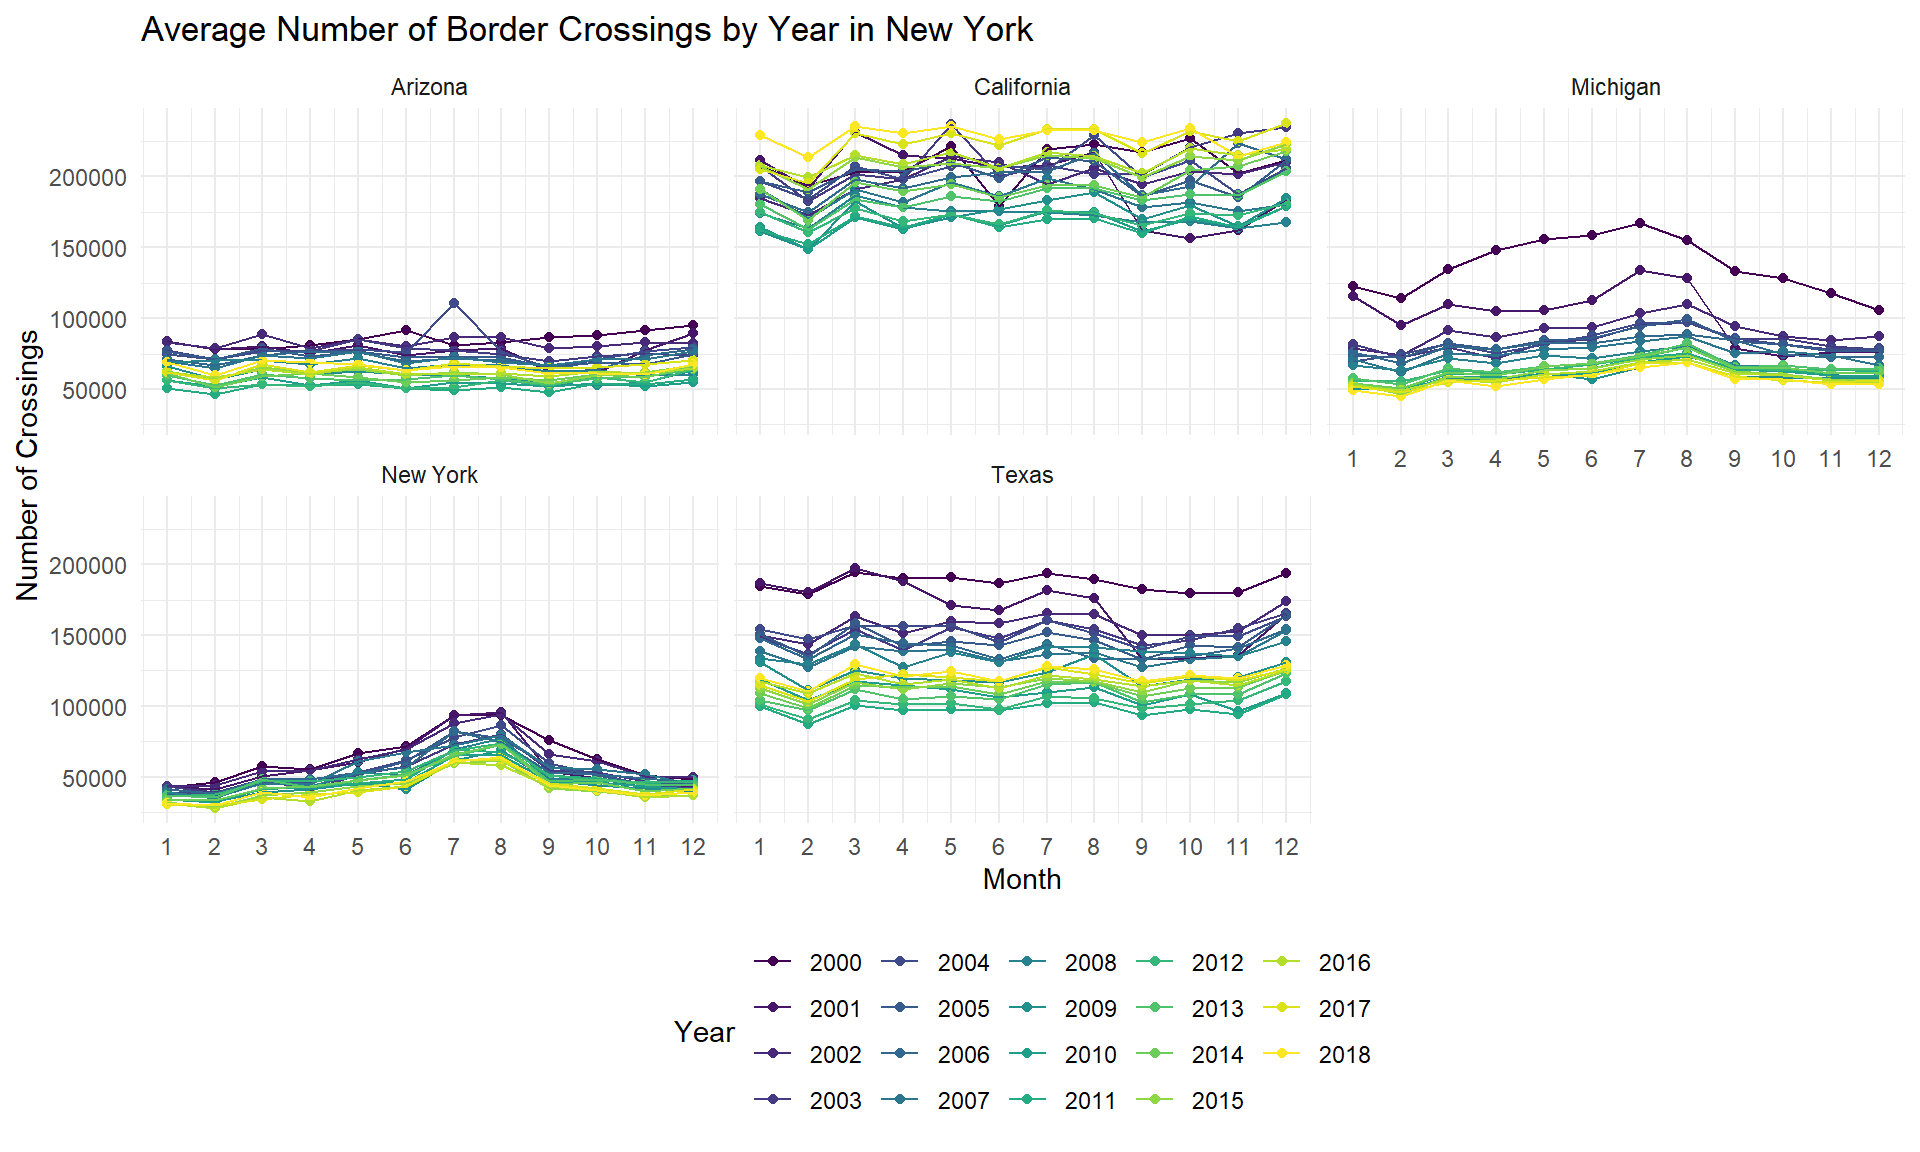
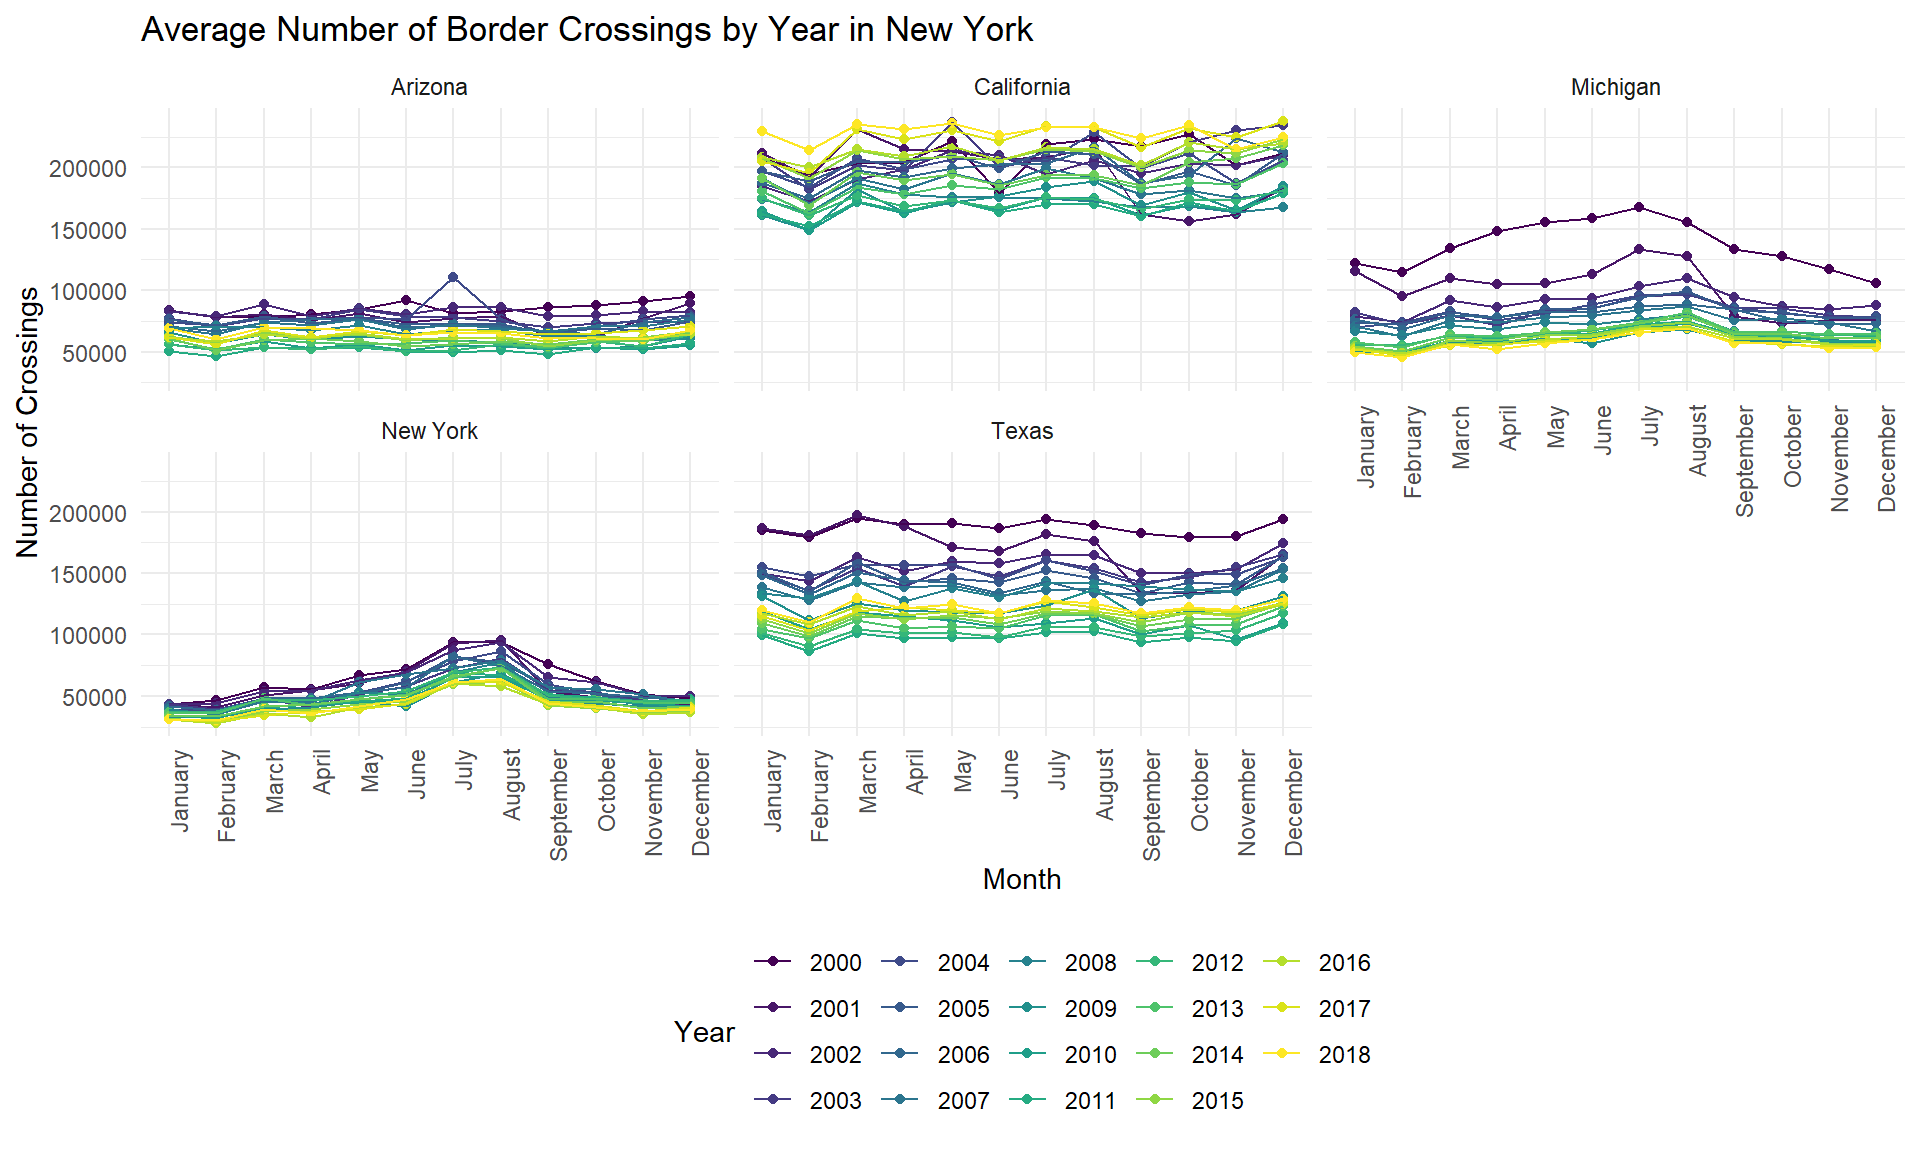
integrating month_name

diff --git a/crossings_annually.html b/crossings_annually.html
@@ -26,17 +26,6 @@
 <script src="site_libs/navigation-1.1/codefolding.js"></script>
 <link href="site_libs/highlightjs-9.12.0/default.css" rel="stylesheet" />
 <script src="site_libs/highlightjs-9.12.0/highlight.js"></script>
-<link href="site_libs/anchor-sections-1.0/anchor-sections.css" rel="stylesheet" />
-<script src="site_libs/anchor-sections-1.0/anchor-sections.js"></script>
-
-<style type="text/css">
-  code{white-space: pre-wrap;}
-  span.smallcaps{font-variant: small-caps;}
-  span.underline{text-decoration: underline;}
-  div.column{display: inline-block; vertical-align: top; width: 50%;}
-  div.hanging-indent{margin-left: 1.5em; text-indent: -1.5em;}
-  ul.task-list{list-style: none;}
-    </style>
 
 <style type="text/css">code{white-space: pre;}</style>
 <style type="text/css">
@@ -420,13 +409,13 @@ div.tocify {
 <pre class="r"><code>## Border crossings by year
 border_crossing_df %&gt;% 
   group_by(year) %&gt;% 
-  summarize(n = sum(value)) %&gt;% 
+  summarize(total_crossings = sum(value)) %&gt;% 
   knitr::kable()</code></pre>
 <table>
 <thead>
 <tr class="header">
 <th align="right">year</th>
-<th align="right">n</th>
+<th align="right">total_crossings</th>
 </tr>
 </thead>
 <tbody>
@@ -512,18 +501,19 @@ border_crossing_df %&gt;%
 <p>Looking at these plots, we can see the clear decline in border crossings over the years in Michigan and New York. In Arizona and Texas, there is also an apparent decline, however, the volume in 2016-2018 shows that there was an upturn in these years compared to years 2012-2016. Lastly, in California, 2018 appears to be the year with the highest volume, and no clear declines annually.</p>
 <pre class="r"><code>border_crossing_df %&gt;%
   filter(state %in% c(&quot;Texas&quot;, &quot;California&quot;, &quot;Arizona&quot;, &quot;New York&quot;, &quot;Michigan&quot;)) %&gt;%
-  group_by(state, month, year) %&gt;%  
+  group_by(state, month_name, year) %&gt;%  
   summarize(mean_value = mean(value)) %&gt;%
-  ggplot(aes(x = month , y = mean_value, color = as.factor(year))) + 
+  ggplot(aes(x = month_name , y = mean_value, color = as.factor(year), group = year)) + 
   geom_point() + 
   geom_line() + 
   theme(legend.position = &quot;bottom&quot;) + 
   facet_wrap(~state) +
-  scale_x_continuous(limits = c(1,12), breaks = c(1:12)) +
+  #scale_x_continuous(limits = c(1,12), breaks = c(1:12)) +
   labs(title = &quot;Average Number of Border Crossings by Year in New York&quot;,
        x = &quot;Month&quot;, 
        y = &quot;Number of Crossings&quot;, 
-       color = &quot;Year&quot;)</code></pre>
+       color = &quot;Year&quot;) +
+  theme(axis.text.x = element_text(angle = 90, hjust = 1))</code></pre>
 <p><img src="crossings_annually_files/figure-html/unnamed-chunk-3-1.png" width="90%" /></p>
 </div>
 
@@ -538,7 +528,7 @@ border_crossing_df %&gt;%
 
 // add bootstrap table styles to pandoc tables
 function bootstrapStylePandocTables() {
-  $('tr.odd').parent('tbody').parent('table').addClass('table table-condensed');
+  $('tr.header').parent('thead').parent('table').addClass('table table-condensed');
 }
 $(document).ready(function () {
   bootstrapStylePandocTables();
